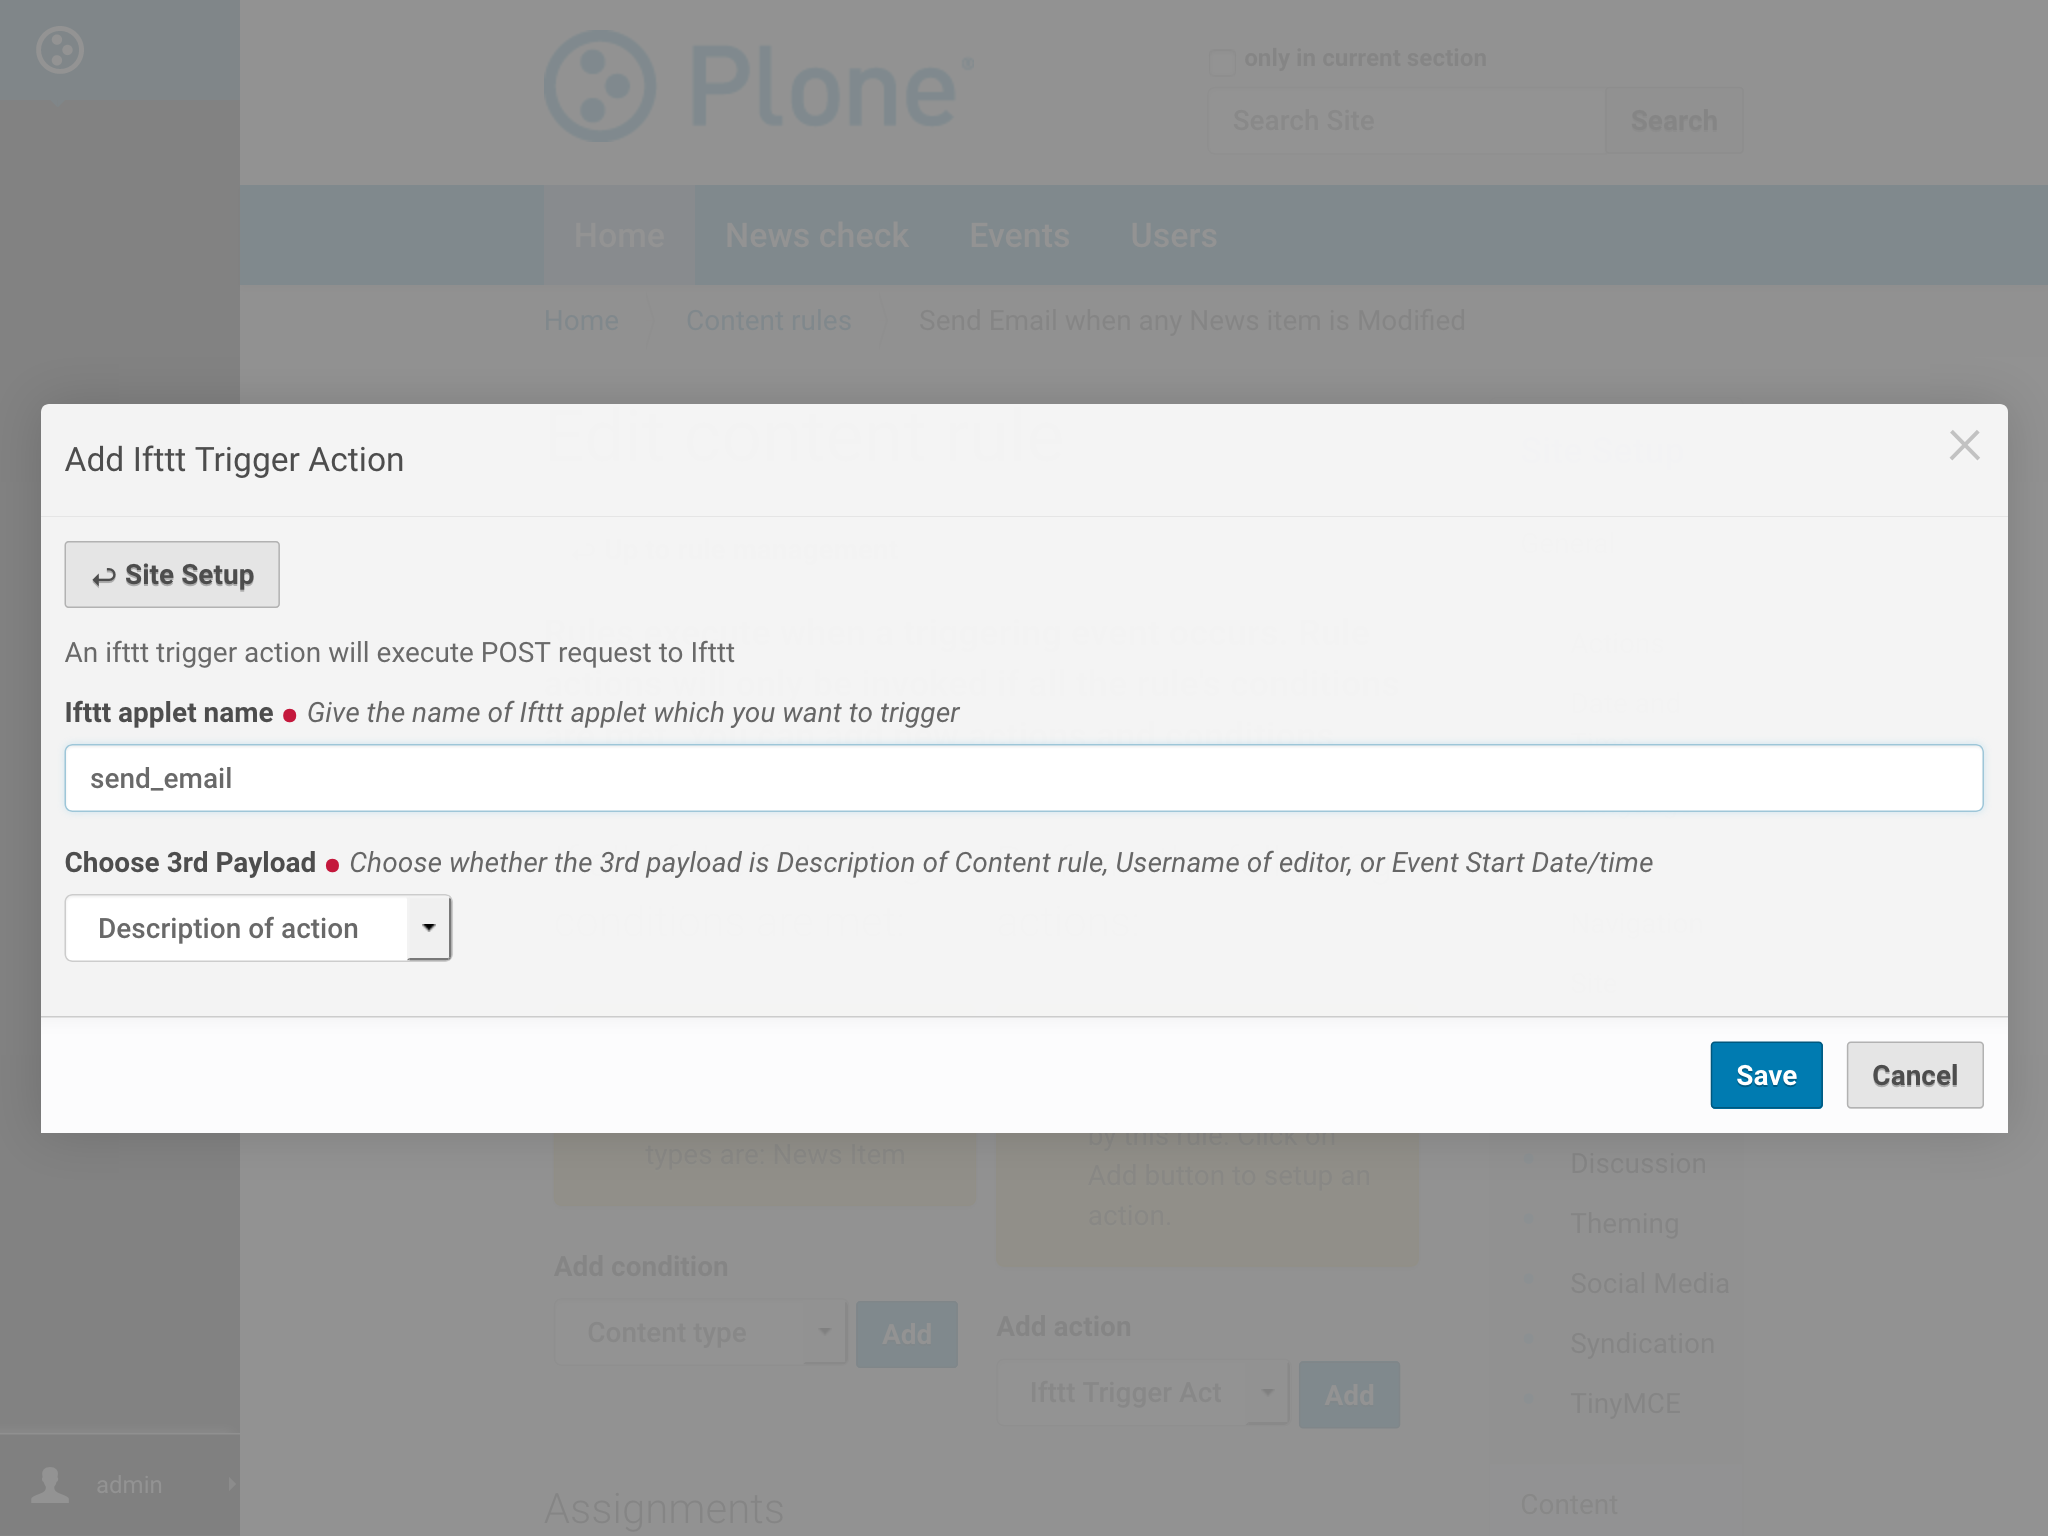
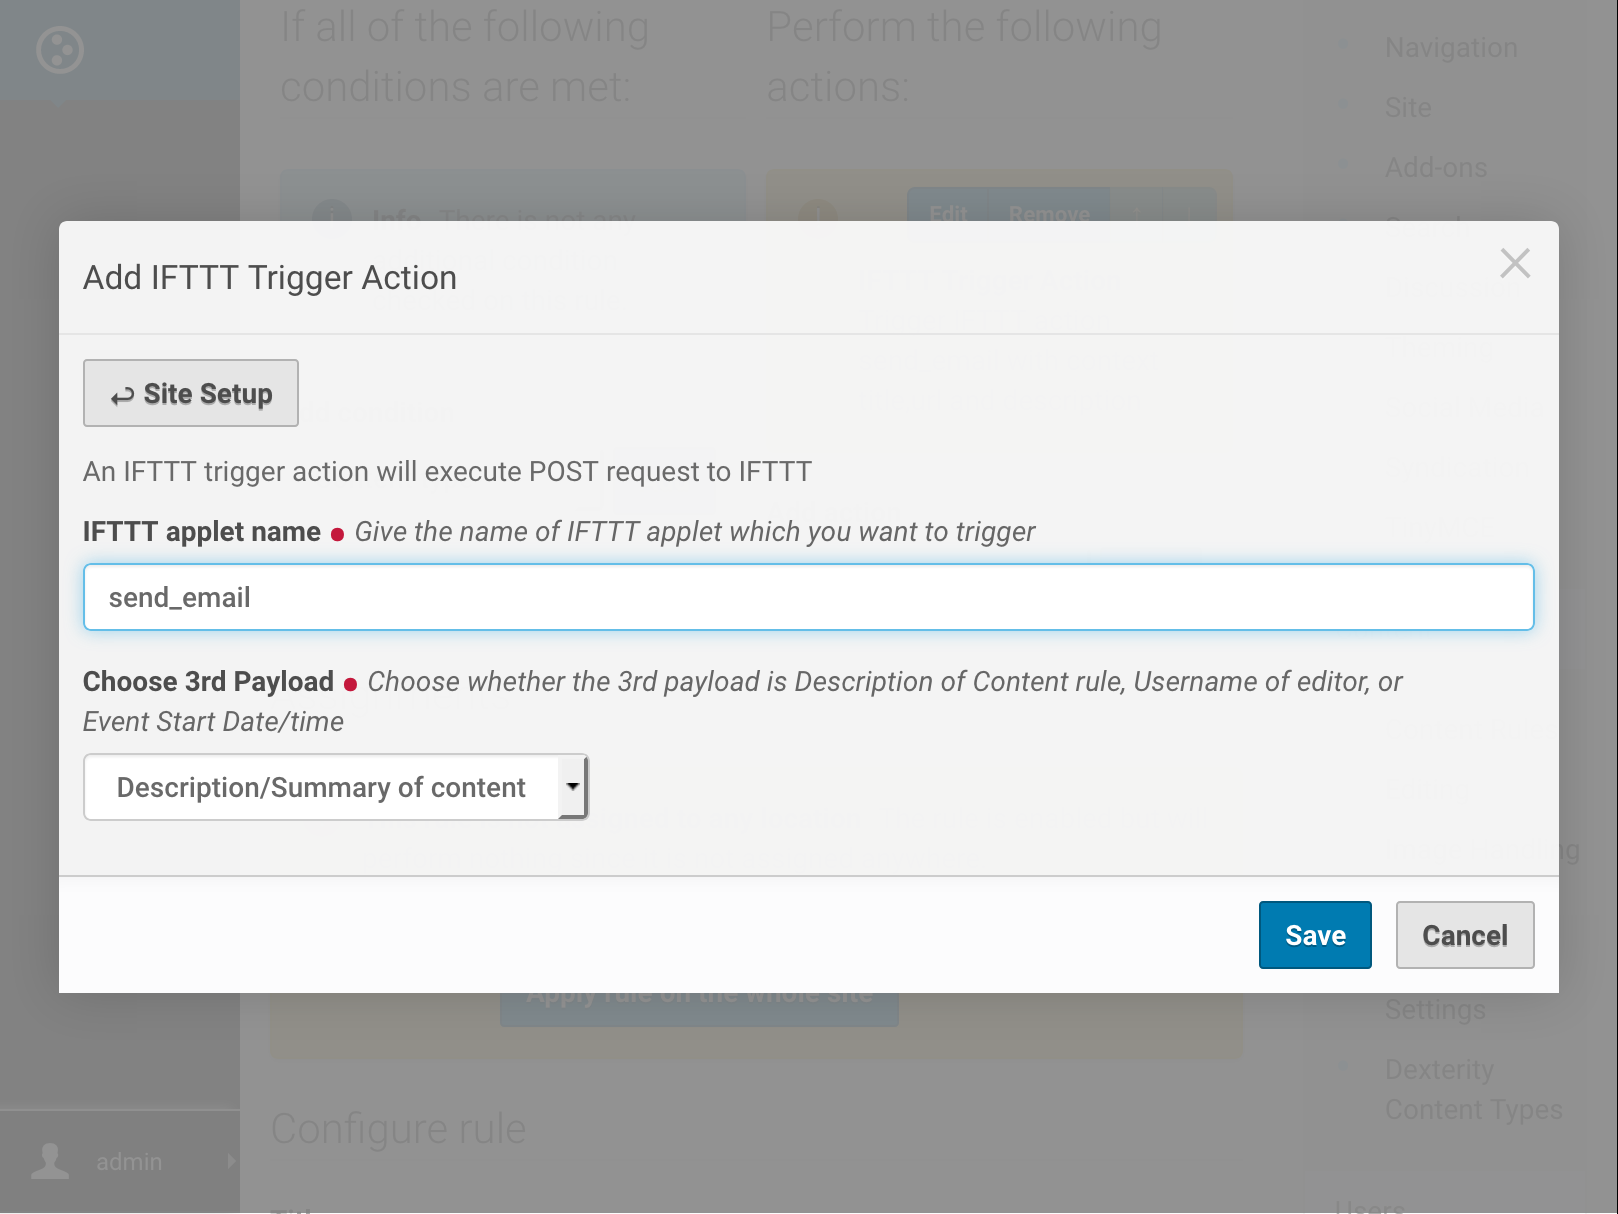
retyped ifttt/Ifttt to IFTTT on UI/Documentation

Changed region(s): [[0.0, 0.1829, 0.9889, 0.8229]]

diff --git a/src/collective/ifttt/actions/ifttt.py b/src/collective/ifttt/actions/ifttt.py
@@ -40,9 +40,9 @@ class IIftttTriggerAction(Interface):
         Definition of the configuration available for a  Ifttt action
     """
     ifttt_event_name = schema.TextLine(
-        title=_(u'Ifttt applet name'),
+        title=_(u'IFTTT applet name'),
         description=_(
-            u'Give the name of Ifttt applet which you want to trigger'
+            u'Give the name of IFTTT applet which you want to trigger'
         ),
         required=True,
     )
@@ -127,7 +127,7 @@ class IftttTriggerActionExecutor(object):
                 '''
                 payload[payload_option] = None
 
-        logger.info('Calling Post request to Ifttt')
+        logger.info('Calling Post request to IFTTT')
         try:
             # Post HTTP request
             requests.post(
@@ -136,22 +136,22 @@ class IftttTriggerActionExecutor(object):
             # show this logging message to Plone user as notification
             api.portal.show_message(
                 message=_(
-                    u'Successfully triggered the Ifttt applet '
+                    u'Successfully triggered the IFTTT applet '
                     u'${ifttt_event_name}',
                     mapping=dict(ifttt_event_name=ifttt_event_name, ),
                 ),
                 request=getRequest(),
                 type='info'
             )
-            logger.info('Successful Post request to Ifttt')
+            logger.info('Successful Post request to IFTTT')
 
         except TypeError:
-            logger.exception('Error calling Ifttt Trigger')
+            logger.exception('Error calling IFTTT Trigger')
 
             # show this logging message to Plone user as notification
             api.portal.show_message(
                 message=_(
-                    u'Error calling Ifttt Trigger',
+                    u'Error calling IFTTT Trigger',
                 ),
                 request=getRequest(),
                 type='info'
@@ -165,9 +165,9 @@ class IftttAddForm(ActionAddForm):
     An add form for the ifttt action
     """
     schema = IIftttTriggerAction
-    label = _(u'Add Ifttt Trigger Action')
+    label = _(u'Add IFTTT Trigger Action')
     description = _(
-        u'An ifttt trigger action will execute POST request to Ifttt'
+        u'An IFTTT trigger action will execute POST request to IFTTT'
     )
     form_name = _(u'Configure element')
     Type = IftttTriggerAction
@@ -183,9 +183,9 @@ class IftttEditForm(ActionEditForm):
     z3c.form does all the magic here.
     """
     schema = IIftttTriggerAction
-    label = _(u'Edit Ifttt Action')
+    label = _(u'Edit IFTTT Action')
     description = _(
-        u'An ifttt trigger action will execute POST request to Ifttt'
+        u'An IFTTT trigger action will execute POST request to IFTTT'
     )
     form_name = _(u'Configure element')
 

diff --git a/src/collective/ifttt/browser/controlpanel.py b/src/collective/ifttt/browser/controlpanel.py
@@ -10,7 +10,7 @@ from plone.z3cform import layout
 class IftttControlPanelForm(RegistryEditForm):
     schema = ICollectiveIFtttSettings
     schema_prefix = 'ifttt'
-    label = _(u'Ifttt Settings')
+    label = _(u'IFTTT Settings')
 
 
 IftttControlPanelView = layout.wrap_form(

diff --git a/docs/Trigger_Ifttt_Action.rst b/docs/Trigger_Ifttt_Action.rst
@@ -1,47 +1,47 @@
-Trigger Ifttt Action
+Trigger IFTTT Action
 =================================
 
-In this section we will discuss what are `ifttt actions` and
+In this section we will discuss what are `IFTTT actions` and
 how to configure and use them.
 
 Eagle View
 ---------------
 
-Ifttt actions are a powerful mechanism to automate dealing with
+IFTTT actions are a powerful mechanism to automate dealing with
 content and 3rd party web services.
 They are created and configured using Plone Content Rule.
 
 There are several steps, that follow one another:
 
-**Define the ifttt action configuration**
+**Define the IFTTT action configuration**
 
 1. create and name a new rule, specifying what triggers it to be executed
 2. then narrow it down, by using conditions, to execute only on the content items you want
-3. and configure the ifttt action that should be taken
+3. and configure the IFTTT action that should be taken
 
 But by default it will not execute yet; there is one more step to take:
 
 Apply it to a portion of your site. Or to the whole site, if you so choose to.
-You can also apply different/multiple ifttt actions onto different/multiple
+You can also apply different/multiple IFTTT actions onto different/multiple
 part of your site.
 
 Triggers, conditions, actions
 -----------------------------
 
-A general overview what makes up a ifttt actions,
+A general overview what makes up a IFTTT actions,
 some sample use cases, and who can set up and use content rules.
 
-**What is a `ifttt action`?**
+**What is a `IFTTT action`?**
 
-A `ifttt action` will automatically perform
+A `IFTTT action` will automatically perform
 an action when certain events (known as “triggers”) take place.
 
-You can set up an `ifttt action` to email (the action)
+You can set up an `IFTTT action` to email (the action)
 whenever certain (or any) content is modified to a specific folder (the trigger).
 
-**Who can set up and use ifttt actions?**
+**Who can set up and use IFTTT actions?**
 
-Site Manager permissions are required to in order to set up and apply ifttt actions.
+Site Manager permissions are required to in order to set up and apply IFTTT actions.
 
 **What are the triggers and conditions that come with Plone 5.0?**
 
@@ -76,8 +76,8 @@ The following general **conditions** are available by default:
 Creating and Defining Content Rules
 -----------------------------------
 
-Ifttt actions are configured inside content rules.
-So before starting with ifttt actions, content rules have to be defined.
+IFTTT actions are configured inside content rules.
+So before starting with IFTTT actions, content rules have to be defined.
 
 Creating a Rule
 ^^^^^^^^^^^^^^^
@@ -91,11 +91,11 @@ you’re going to create a content rule that will send an email any time a News 
 
 - Go to site setup
 
-.. image:: _static/images/Trigger_Ifttt_Action/site_setup.png
+.. image:: _static/images/Trigger_IFTTT_Action/site_setup.png
 
 - Select “Content Rules” in General tab.
 
-.. image:: _static/images/Trigger_Ifttt_Action/Content_Rules_on_site_setup.png
+.. image:: _static/images/Trigger_IFTTT_Action/Content_Rules_on_site_setup.png
 
 - The first option, “Disable Globally”, allows you to disable ALL content rules.
   This is the emergency brake, for when you have created rules that are not doing what you want.
@@ -103,7 +103,7 @@ you’re going to create a content rule that will send an email any time a News 
   any existing content rules will be listed.
   There are also some checkboxes to filter them, which can be useful if there are many rules defined.
 
-.. image:: _static/images/Trigger_Ifttt_Action/add_content_rule.png
+.. image:: _static/images/Trigger_IFTTT_Action/add_content_rule.png
 
 If no content rules exist, the only option is an “Add content rule” button. Click that.
 
@@ -113,14 +113,14 @@ for this example, use: “Send Email when any News item is Modified”. Enter a 
 For the “Triggering event” select “Object modified”. Leave “Enabled” checked,
 and “Stop executing rules” and “Cascading rule” unchecked.
 
-.. image:: _static/images/Trigger_Ifttt_Action/configure_content_rule.png
+.. image:: _static/images/Trigger_IFTTT_Action/configure_content_rule.png
 
 Click the “Save” button.
 At this point, you have essentially created a “container” for the content rule.
 
 Next you’ll further define the trigger and actions for this rule.
 
-.. image:: _static/images/Trigger_Ifttt_Action/save_content_rule.png
+.. image:: _static/images/Trigger_IFTTT_Action/save_content_rule.png
 
 
 Defining conditions and actions
@@ -136,13 +136,16 @@ actions that will occur based on those conditions.
   click on the “Add” button.
 - From the “Add Content Type Condition” page, select “News item” and click on “Save”
 
-.. image:: _static/images/Trigger_Ifttt_Action/configure_trigger.png
+.. image:: _static/images/Trigger_IFTTT_Action/configure_trigger.png
 
 **For the action:**
 
-- Select “Ifttt Trigger Action” from the drop down menu and click on the “Add” button.
-- From the “Add Ifttt Trigger Action” page, fill out the form:
-- For the “Ifttt applet name” enter: the Ifttt applet which you want to trigger.
+- Select “IFTTT Trigger Action” from the drop down menu and click on the “Add” button.
+
+.. image:: _static/images/Trigger_IFTTT_Action/select_action.png
+
+- From the “Add IFTTT Trigger Action” page, fill out the form:
+- For the “IFTTT applet name” enter: the IFTTT applet which you want to trigger.
   For the given example, enter "send_email"
 - Choose the 3rd payload from available options (values of which
   will be dynamically fetched from the content which trigger this action) :
@@ -152,15 +155,15 @@ actions that will occur based on those conditions.
   - start - Event Start Date/Time
 - Click the “Save” button.
 
-.. image:: _static/images/Trigger_Ifttt_Action/configure_action.png
+.. image:: _static/images/Trigger_IFTTT_Action/configure_action.png
 
-Congratulations, you have created a working Ifttt Trigger Action content rule!
+Congratulations, you have created a working IFTTT Trigger Action content rule!
 
 
-Data sent to Ifttt applet
+Data sent to IFTTT applet
 ^^^^^^^^^^^^^^^^^^^^^^^^^
 
-In the data sent to ifttt, following values will be dynamically included
+In the data sent to IFTTT, following values will be dynamically included
 (for which content on the site this content rule triggers):
 
 - Title
@@ -188,14 +191,14 @@ and enabled on one or more folders.
 - Click on the “Rules” tab.
   From there you will see a drop down menu of possible content rules:
 
-.. image:: _static/images/Trigger_Ifttt_Action/rules_tab.png
+.. image:: _static/images/Trigger_IFTTT_Action/rules_tab.png
 
 - Select the desired content rule (“Send Email…” in this example) and
   click on the “Add” button.
 - By default, the rule has now been applied to the current folder only as
   indicated by the symbol in the “Enabled here” column indicates.
 
-.. image:: _static/images/Trigger_Ifttt_Action/select_content_rule.png
+.. image:: _static/images/Trigger_IFTTT_Action/select_content_rule.png
 
 There will be several buttons near the bottom.
 
@@ -221,40 +224,40 @@ which is then moved to a folder. But, in this folder, another ContentRule is act
 which will operate on any new content item that gets moved into that folder.
 Cascade means that yes, the second rule should be applied.
 
-Working example of Ifttt Action
+Working example of IFTTT Action
 -------------------------------
 
 Now, that rules have been configured for "New folder".
-So Ifttt actions will be triggered if any content on News is modified.
+So IFTTT actions will be triggered if any content on News is modified.
 
 For example, below we will create a new `news item` and further update it's content
-to trigger Ifttt ``send_email`` applet.
+to trigger IFTTT ``send_email`` applet.
 
 Create news item
 ^^^^^^^^^^^^^^^^
 - Select Add new - news item
 
-.. image:: _static/images/Trigger_Ifttt_Action/new_news_item.png
+.. image:: _static/images/Trigger_IFTTT_Action/new_news_item.png
 
 - Fill in form for new news. And click save.
 
-.. image:: _static/images/Trigger_Ifttt_Action/fill_new_news_item.png
+.. image:: _static/images/Trigger_IFTTT_Action/fill_new_news_item.png
 
 Update news item
 ^^^^^^^^^^^^^^^^
 
 - Select Edit for news item.
 
-.. image:: _static/images/Trigger_Ifttt_Action/edit_new_news_item.png
+.. image:: _static/images/Trigger_IFTTT_Action/edit_new_news_item.png
 
 - Update news item. And click save.
 
-.. image:: _static/images/Trigger_Ifttt_Action/update_new_news_item.png
+.. image:: _static/images/Trigger_IFTTT_Action/update_new_news_item.png
 
-Triggered the Ifttt Applet
-^^^^^^^^^^^^^^^^^^^^^^^^^
+Triggered the IFTTT Applet
+^^^^^^^^^^^^^^^^^^^^^^^^^^
 
-.. image:: _static/images/Trigger_Ifttt_Action/ifttt_trigger.png
+.. image:: _static/images/Trigger_IFTTT_Action/IFTTT_trigger.png
 
 
 

diff --git a/docs/index.rst b/docs/index.rst
@@ -46,7 +46,7 @@ so you can create more customized applets.
 
    Enable_RSS_feed_on_Plone
    Configuring_Your_IFTTT_Secret_Key
-   Trigger_Ifttt_Action
+          Trigger_IFTTT_Action
 
 
 
